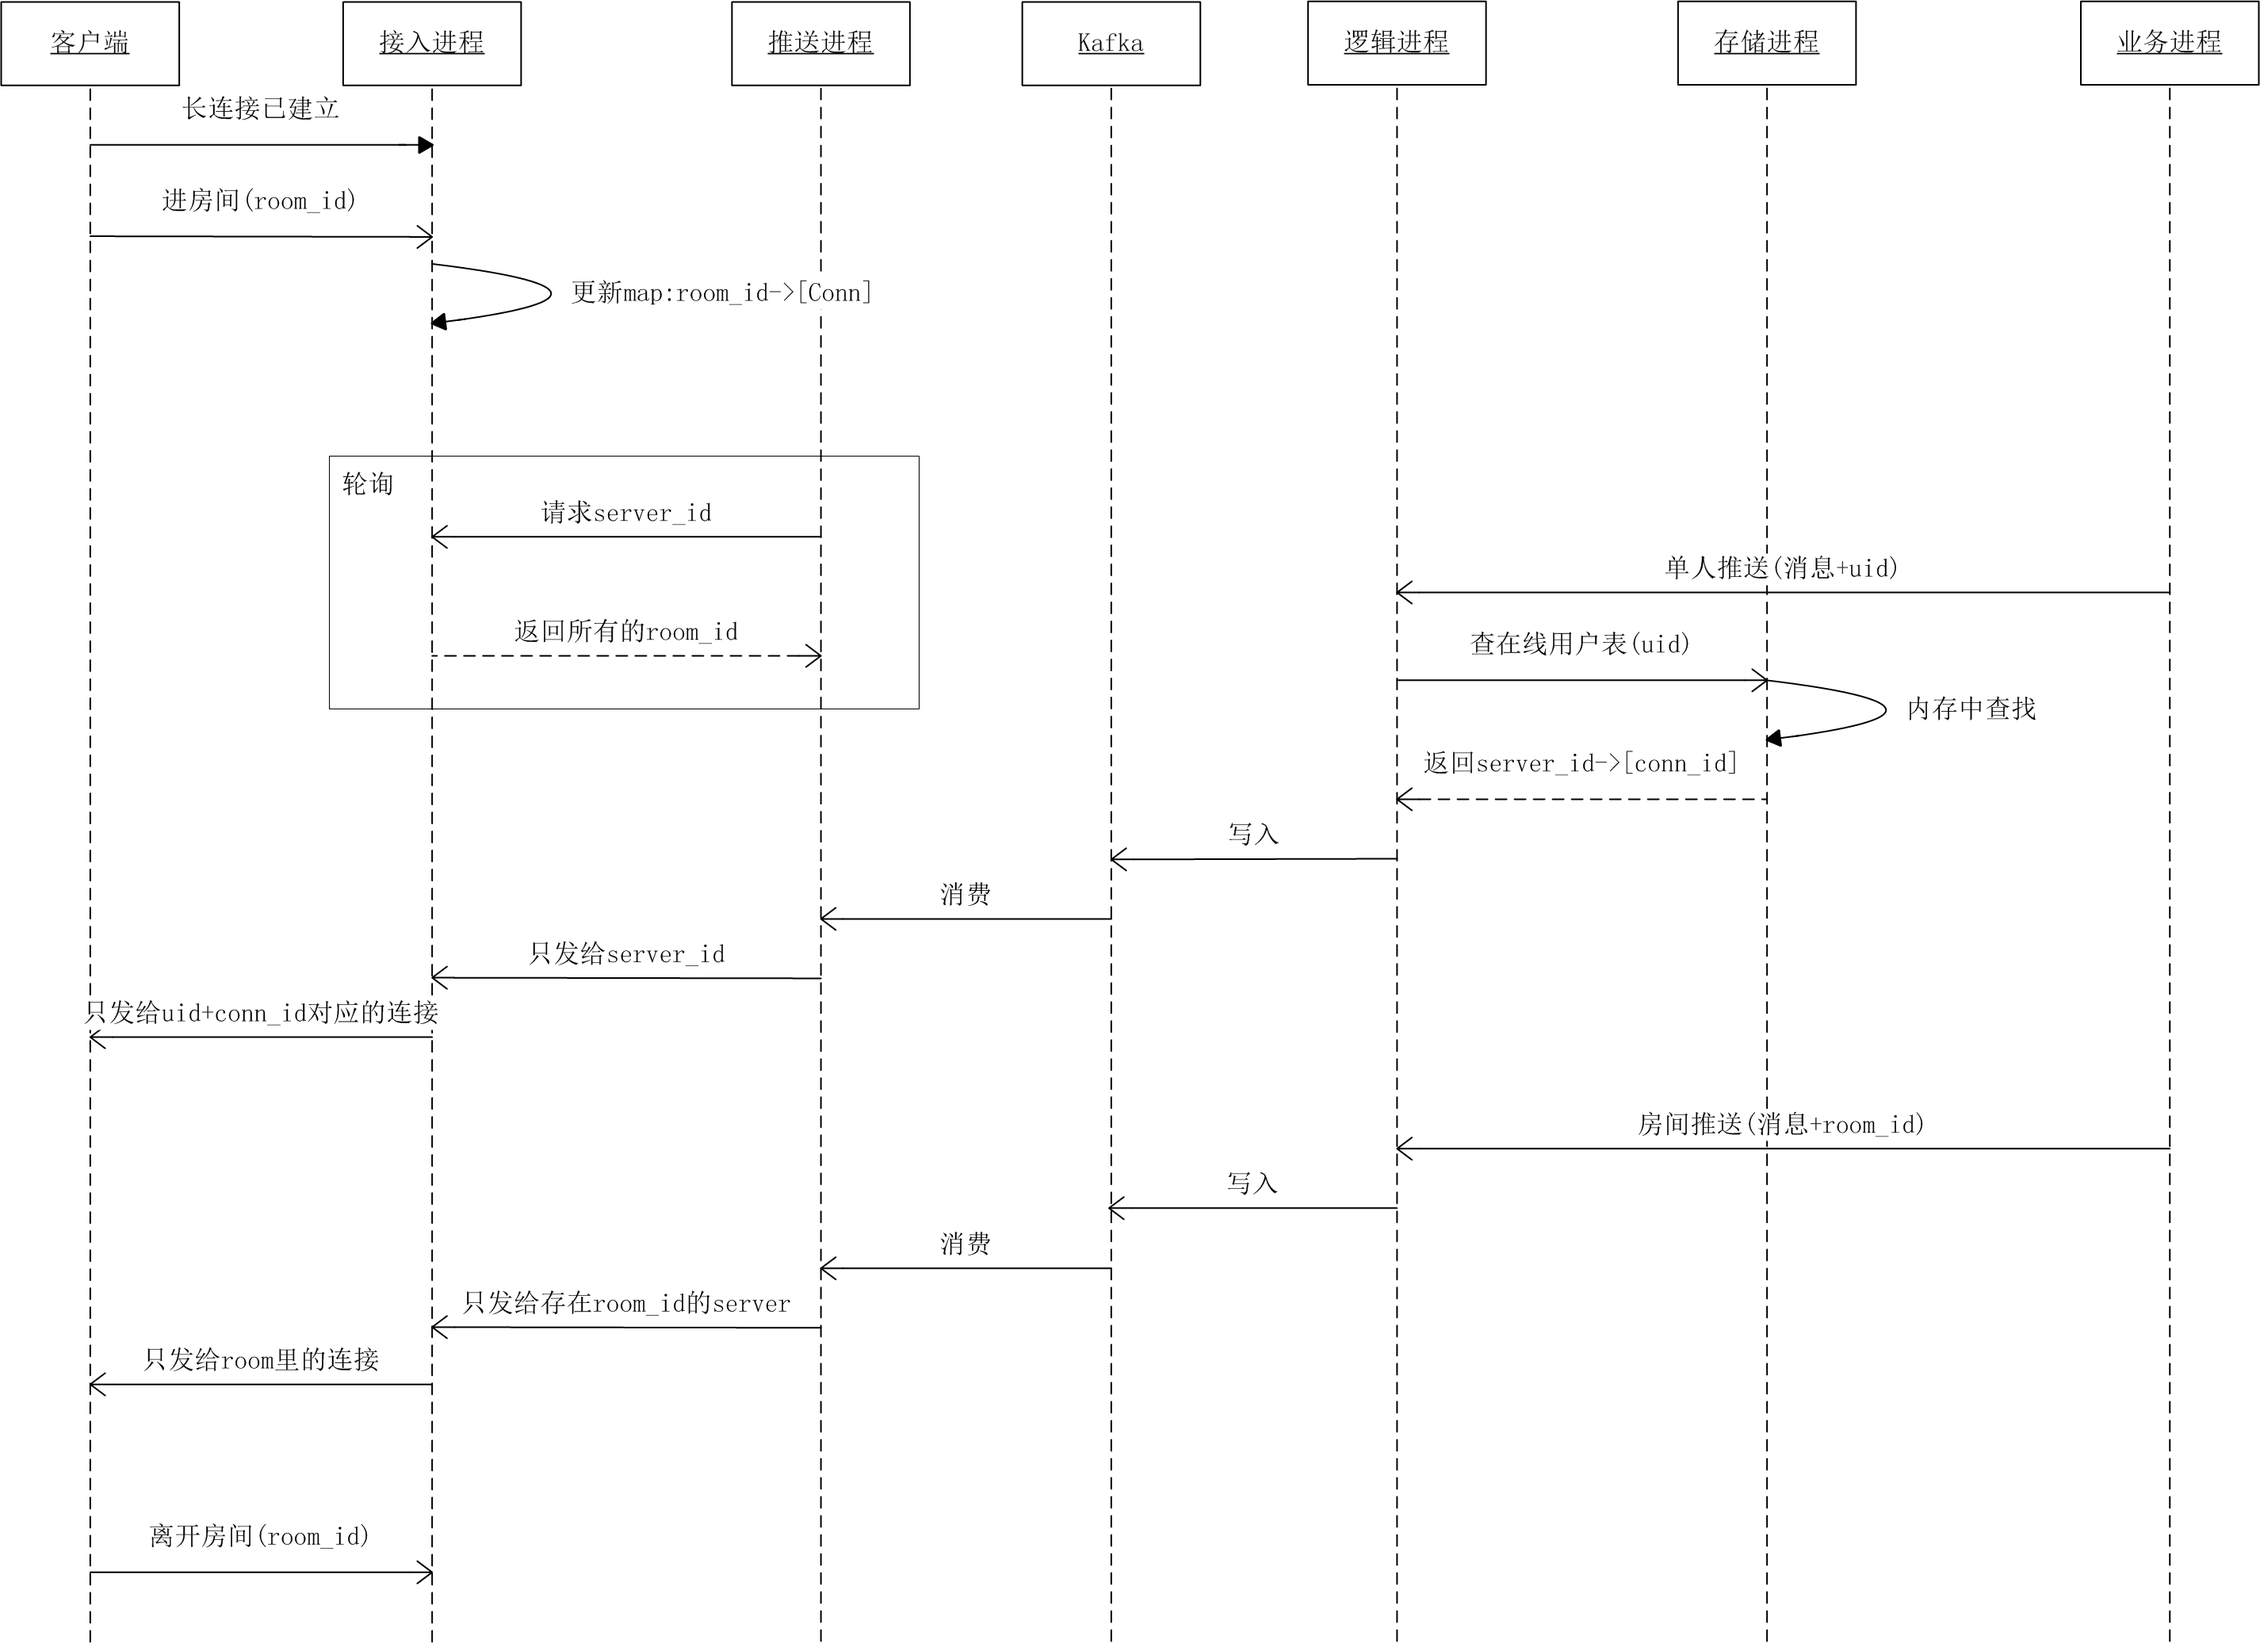
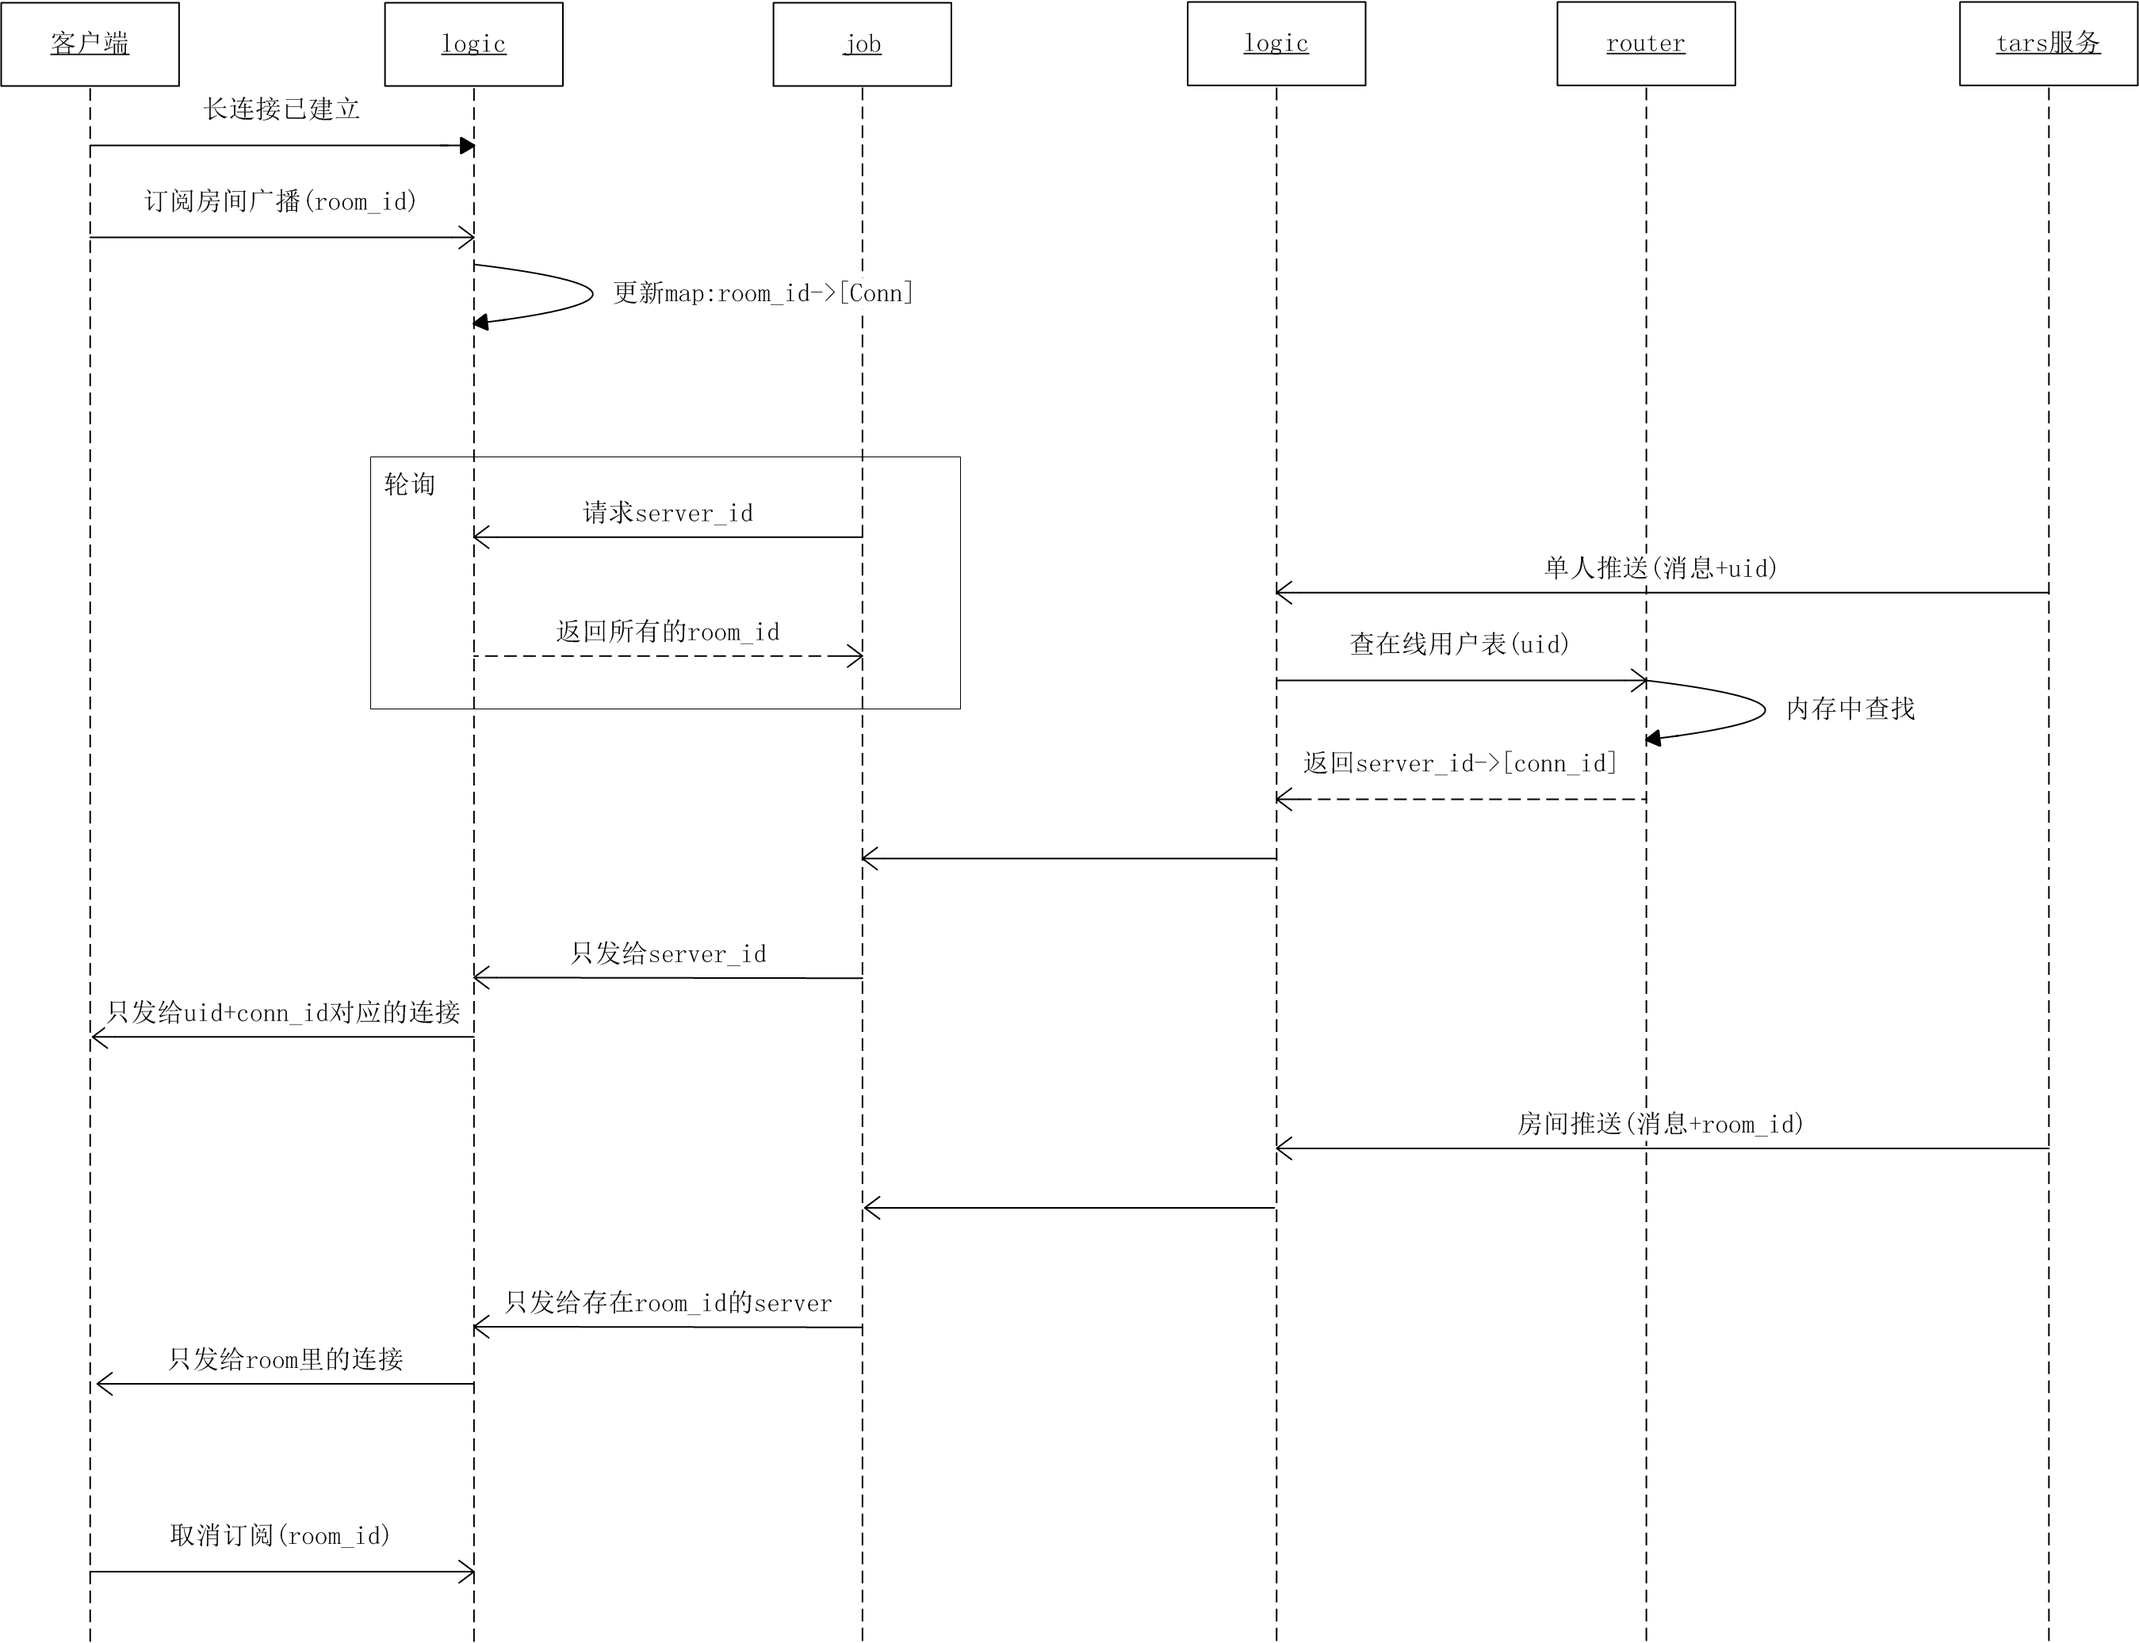
Update doc.

diff --git a/doc/arch.md b/doc/arch.md
@@ -4,23 +4,17 @@
 
 ### 接入层
 
-* 部署在多个接入机房
-* 每个接入机房有多个接入进程
+* 部署在接入机房
+* 每个接入机房有多个接入进程comet
 * 客户端利用智能DNS，根据自己的IP地址，就近接入
 
 ### 逻辑层
 
-* 部署在多个中心机房
-* 每个机房有如下进程
-    * 逻辑进程，处理连接认证、注册和注销
-    * 存储进程，存储用户ID到接入进程的映射关系
-    * 推送进程，转发推送消息
-
-### 存储层
-
-* 部署在中心机房，与逻辑层在一起
-* 存储进程多实例按user_id一致性hash，拆分压力和容量
-* 存储推送消息（可选）
+* 部署在中心机房
+* logic进程，处理鉴权、上线、下线、心跳、房间切换、多登互踢，也提供单播广播、在线查询服务API
+* router进程，存储用户ID到comet进程的映射关系，有状态
+* job进程，转发单播广播消息
+* 外部服务，如Tars服务、账号服务等
 
 ## 架构图
 
@@ -32,17 +26,16 @@
 
 ## 推送过程
 
-推送人是业务进程，由它发消息给逻辑进程，触发推送过程。
+推送人是业务进程，由它发消息给logic进程，触发推送过程。
 
-* 广播：广播消息由推送进程发给所有的接入进程，不用查表
-* 单人推送：业务进程发推送时，指定user_id
-* 房间推送：业务进程发推送时，指定room_id
+* 单播：业务进程发消息时，指定user_id
+* 房间广播：业务进程发消息时，指定room_id
 
 ![push](push.png)
 
 ## 数据结构
 
-存储进程维护全局在线用户，是一个二级map `user_id -> conn_id -> server_id`。 
+router维护全局在线用户，是一个二级map `user_id -> conn_id -> server_id`。 
 
 * user_id 是业务指定的，唯一标识一个用户
 * conn_id 由存储进程分配，唯一标识该用户的一条连接
